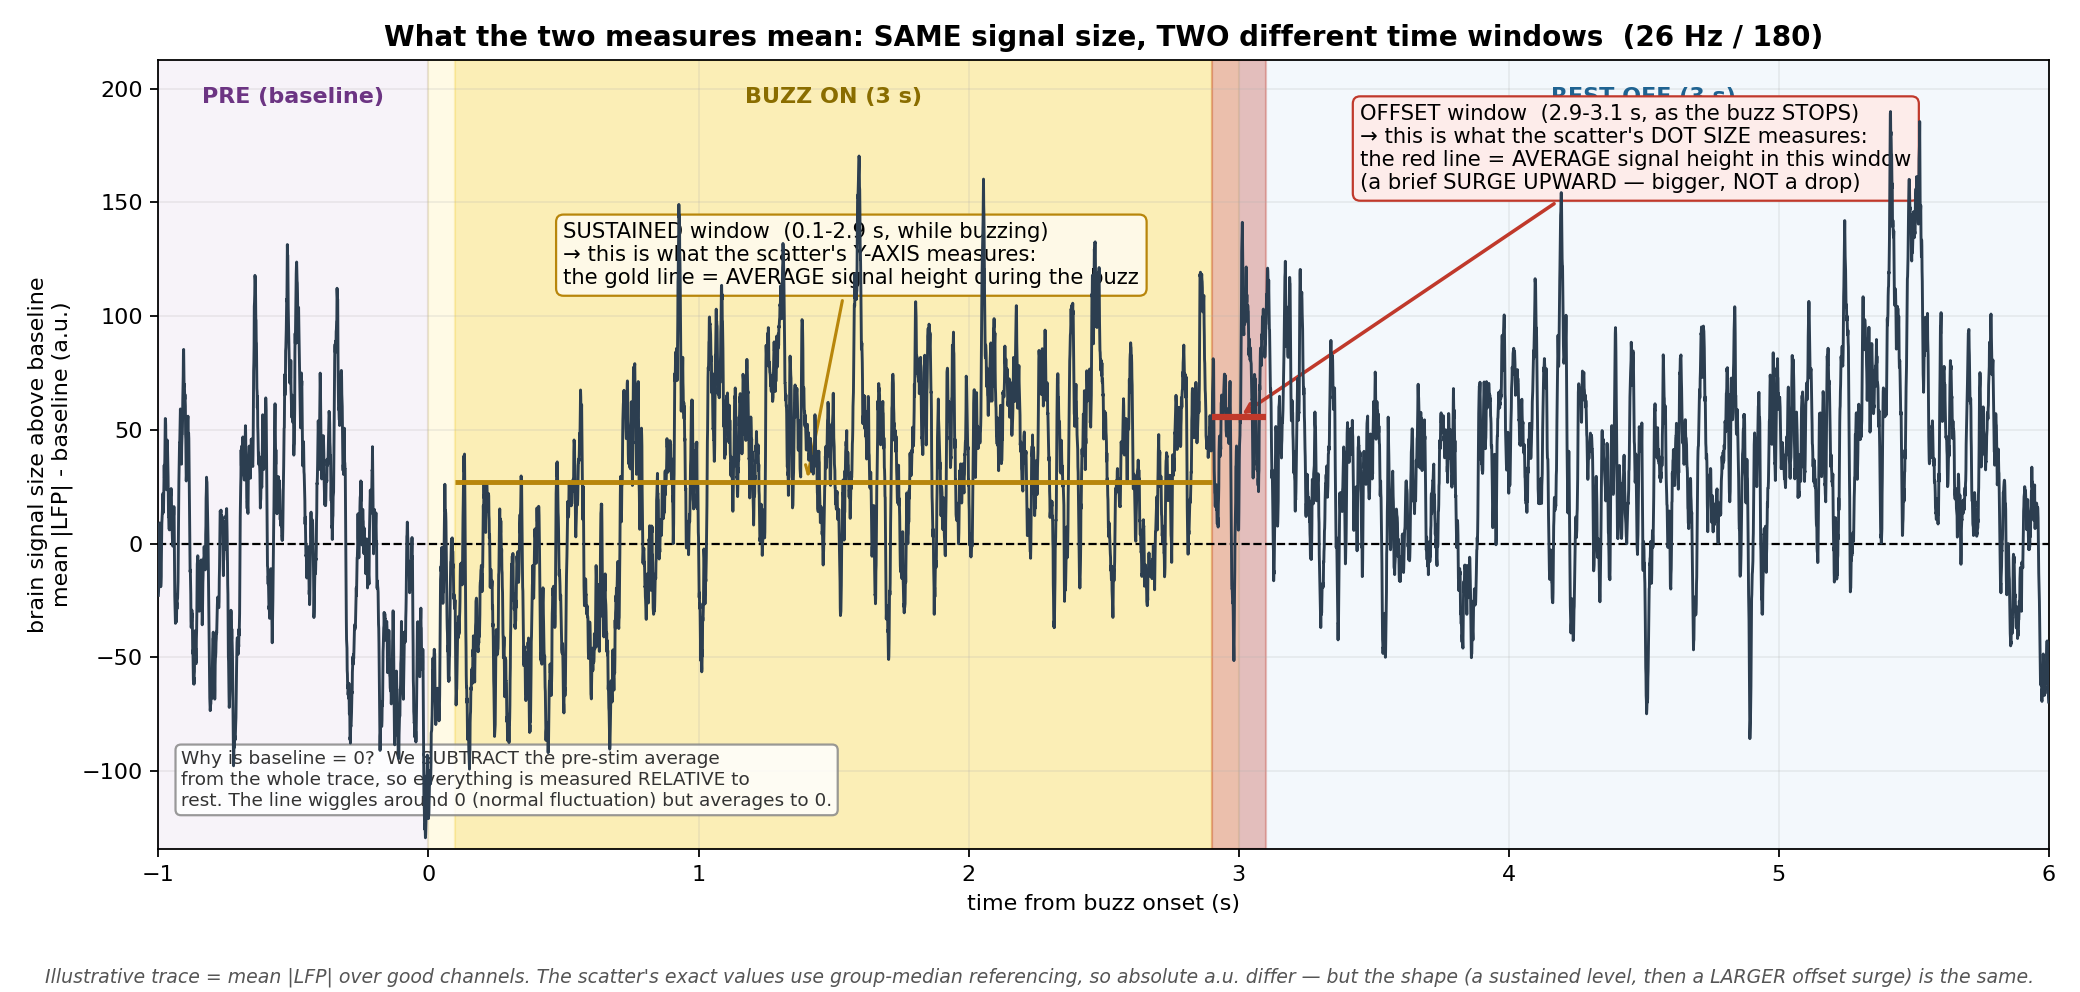
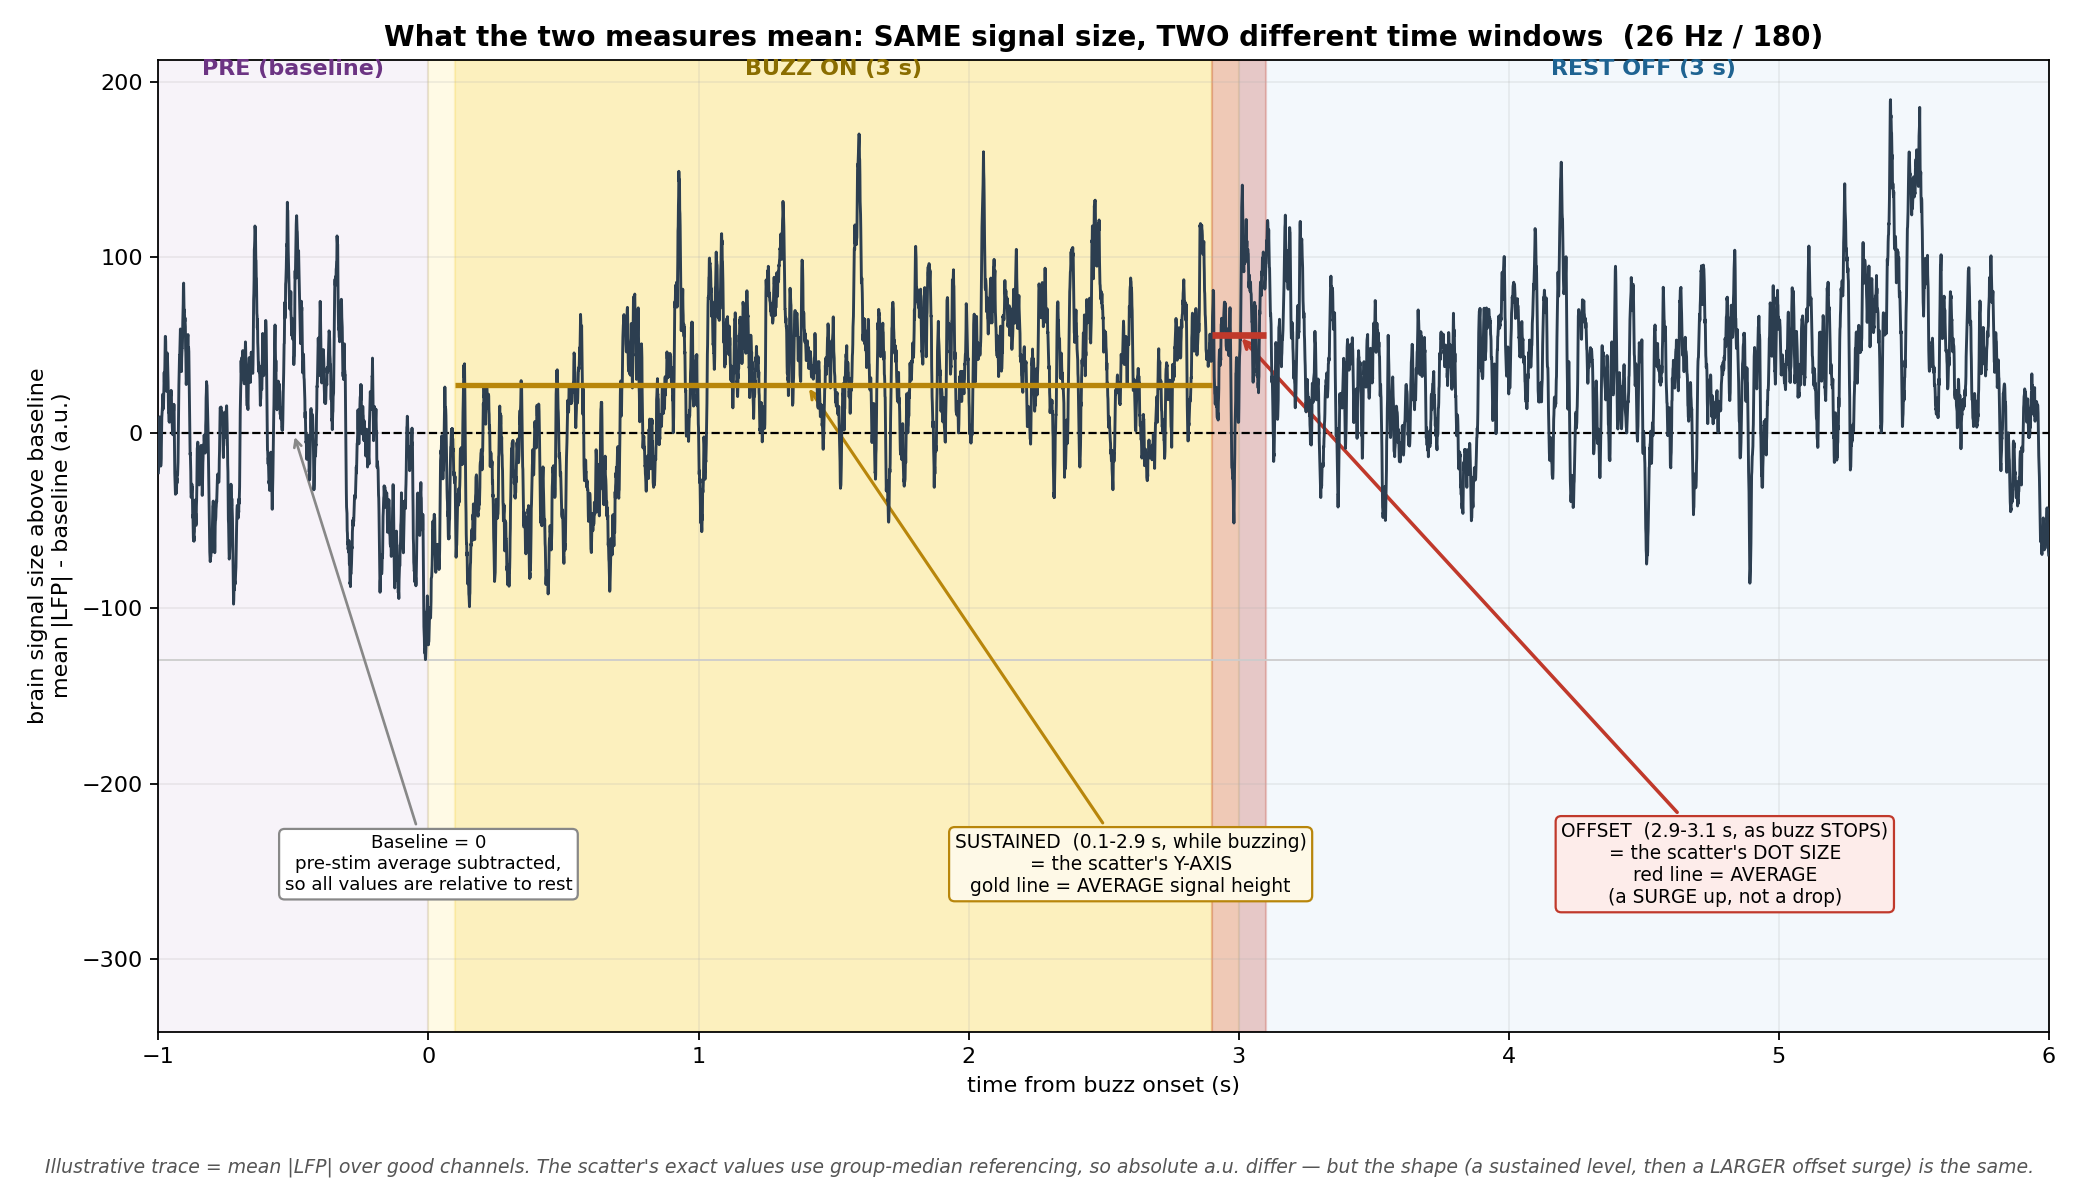
Move explanation boxes below the trace in teaching figure
Add an empty band beneath the signal (gray divider) and relocate all three
annotation boxes (baseline, sustained, offset) into it with arrows pointing up
to their lines, so they no longer overlap the wiggly trace.

diff --git a/analysis/explain_sustained_vs_offset_dec3.py b/analysis/explain_sustained_vs_offset_dec3.py
@@ -59,44 +59,47 @@ def main():
     sustained = winmean(MARGIN, 3 - MARGIN)
     offset = winmean(3 - MARGIN, 3 + MARGIN)
 
-    fig, ax = plt.subplots(figsize=(13, 6.2))
+    fig, ax = plt.subplots(figsize=(13, 7.4))
+    data_lo = min(0.0, float(m.min())); data_hi = float(m.max()) * 1.12
+    band = (data_hi - data_lo) * 0.62                 # empty band below the trace for the text boxes
+    band_y = data_lo - band * 0.55
+    ax.set_xlim(-1, 6); ax.set_ylim(data_lo - band, data_hi)
+    lbl_y = data_hi * 0.96
+
     # PRE / ON / OFF backdrops
     ax.axvspan(-1, 0, color="#9b59b6", alpha=0.07)
     ax.axvspan(0, 3, color="gold", alpha=0.10)
     ax.axvspan(3, 6, color="#3498db", alpha=0.06)
-    ax.text(-0.5, m.max() * 1.02, "PRE (baseline)", ha="center", fontsize=10, color="#6c3483", fontweight="bold")
-    ax.text(1.5, m.max() * 1.02, "BUZZ ON (3 s)", ha="center", fontsize=10, color="#8a6d00", fontweight="bold")
-    ax.text(4.5, m.max() * 1.02, "REST OFF (3 s)", ha="center", fontsize=10, color="#1f6391", fontweight="bold")
+    ax.text(-0.5, lbl_y, "PRE (baseline)", ha="center", fontsize=10, color="#6c3483", fontweight="bold")
+    ax.text(1.5, lbl_y, "BUZZ ON (3 s)", ha="center", fontsize=10, color="#8a6d00", fontweight="bold")
+    ax.text(4.5, lbl_y, "REST OFF (3 s)", ha="center", fontsize=10, color="#1f6391", fontweight="bold")
 
     # the two measurement windows
-    ax.axvspan(MARGIN, 3 - MARGIN, color="#f1c40f", alpha=0.22)
-    ax.axvspan(3 - MARGIN, 3 + MARGIN, color="#c0392b", alpha=0.30)
+    ax.axvspan(MARGIN, 3 - MARGIN, color="#f1c40f", alpha=0.18)
+    ax.axvspan(3 - MARGIN, 3 + MARGIN, color="#c0392b", alpha=0.25)
 
     ax.plot(t, m, color="#2c3e50", lw=1.3, zorder=5)
     ax.axhline(0, color="black", lw=1.0, ls="--")
-    ax.text(0.012, 0.05, "Why is baseline = 0?  We SUBTRACT the pre-stim average\nfrom the whole trace, so everything is measured RELATIVE to\nrest. The line wiggles around 0 (normal fluctuation) but averages to 0.",
-            transform=ax.transAxes, fontsize=8.3, color="#333", va="bottom",
-            bbox=dict(boxstyle="round,pad=0.3", fc="white", ec="#888", alpha=0.85))
+    ax.axhline(data_lo, color="#cccccc", lw=0.8)          # divider: trace above, text boxes below
 
-    # sustained level line + label (this is the Y-AXIS measure)
-    ax.hlines(sustained, MARGIN, 3 - MARGIN, color="#b8860b", lw=2.2, zorder=6)
-    ax.annotate("SUSTAINED window  (0.1-2.9 s, while buzzing)\n"
-                "→ this is what the scatter's Y-AXIS measures:\nthe gold line = AVERAGE signal height during the buzz",
-                (1.4, sustained), xytext=(0.5, m.max() * 0.60), textcoords="data", fontsize=9.5,
-                bbox=dict(boxstyle="round,pad=0.35", fc="#fef9e7", ec="#b8860b"),
+    # average-level lines (these are the values the scatter encodes)
+    ax.hlines(sustained, MARGIN, 3 - MARGIN, color="#b8860b", lw=2.4, zorder=6)
+    ax.hlines(offset, 3 - MARGIN, 3 + MARGIN, color="#c0392b", lw=3.0, zorder=7)
+
+    # all explanation boxes sit in the band BELOW the trace, arrows pointing up to their lines
+    ax.annotate("Baseline = 0\npre-stim average subtracted,\nso all values are relative to rest",
+                xy=(-0.5, 0), xytext=(0.0, band_y), ha="center", va="center", fontsize=8.2,
+                bbox=dict(boxstyle="round,pad=0.3", fc="white", ec="#888"),
+                arrowprops=dict(arrowstyle="->", color="#888", lw=1.2))
+    ax.annotate("SUSTAINED  (0.1-2.9 s, while buzzing)\n= the scatter's Y-AXIS\ngold line = AVERAGE signal height",
+                xy=(1.4, sustained), xytext=(2.6, band_y), ha="center", va="center", fontsize=8.4,
+                bbox=dict(boxstyle="round,pad=0.3", fc="#fef9e7", ec="#b8860b"),
                 arrowprops=dict(arrowstyle="->", color="#b8860b", lw=1.4))
-
-    # offset surge label (this is the DOT SIZE measure) -- red line = AVERAGE in the offset window
-    ax.hlines(offset, 3 - MARGIN, 3 + MARGIN, color="#c0392b", lw=2.8, zorder=7)
-    ax.annotate("OFFSET window  (2.9-3.1 s, as the buzz STOPS)\n"
-                "→ this is what the scatter's DOT SIZE measures:\n"
-                "the red line = AVERAGE signal height in this window\n"
-                "(a brief SURGE UPWARD — bigger, NOT a drop)",
-                (3.0, offset), xytext=(3.45, m.max() * 0.82), textcoords="data", fontsize=9.5,
-                bbox=dict(boxstyle="round,pad=0.35", fc="#fdecea", ec="#c0392b"),
+    ax.annotate("OFFSET  (2.9-3.1 s, as buzz STOPS)\n= the scatter's DOT SIZE\nred line = AVERAGE\n(a SURGE up, not a drop)",
+                xy=(3.0, offset), xytext=(4.8, band_y), ha="center", va="center", fontsize=8.4,
+                bbox=dict(boxstyle="round,pad=0.3", fc="#fdecea", ec="#c0392b"),
                 arrowprops=dict(arrowstyle="->", color="#c0392b", lw=1.6))
 
-    ax.set_xlim(-1, 6); ax.set_ylim(min(0, m.min()) - 5, m.max() * 1.12)
     ax.set_xlabel("time from buzz onset (s)")
     ax.set_ylabel("brain signal size above baseline\nmean |LFP| - baseline (a.u.)")
     ax.set_title("What the two measures mean: SAME signal size, TWO different time windows  (26 Hz / 180)",